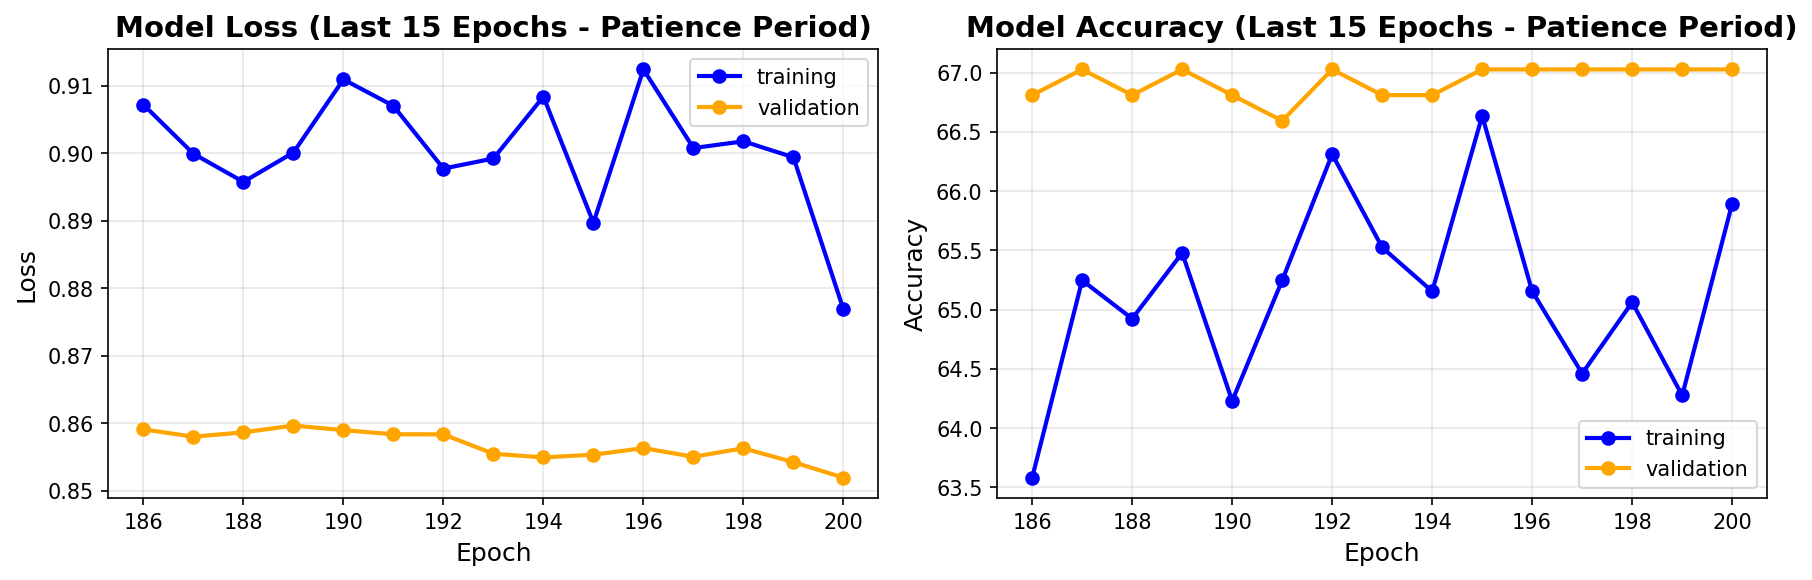
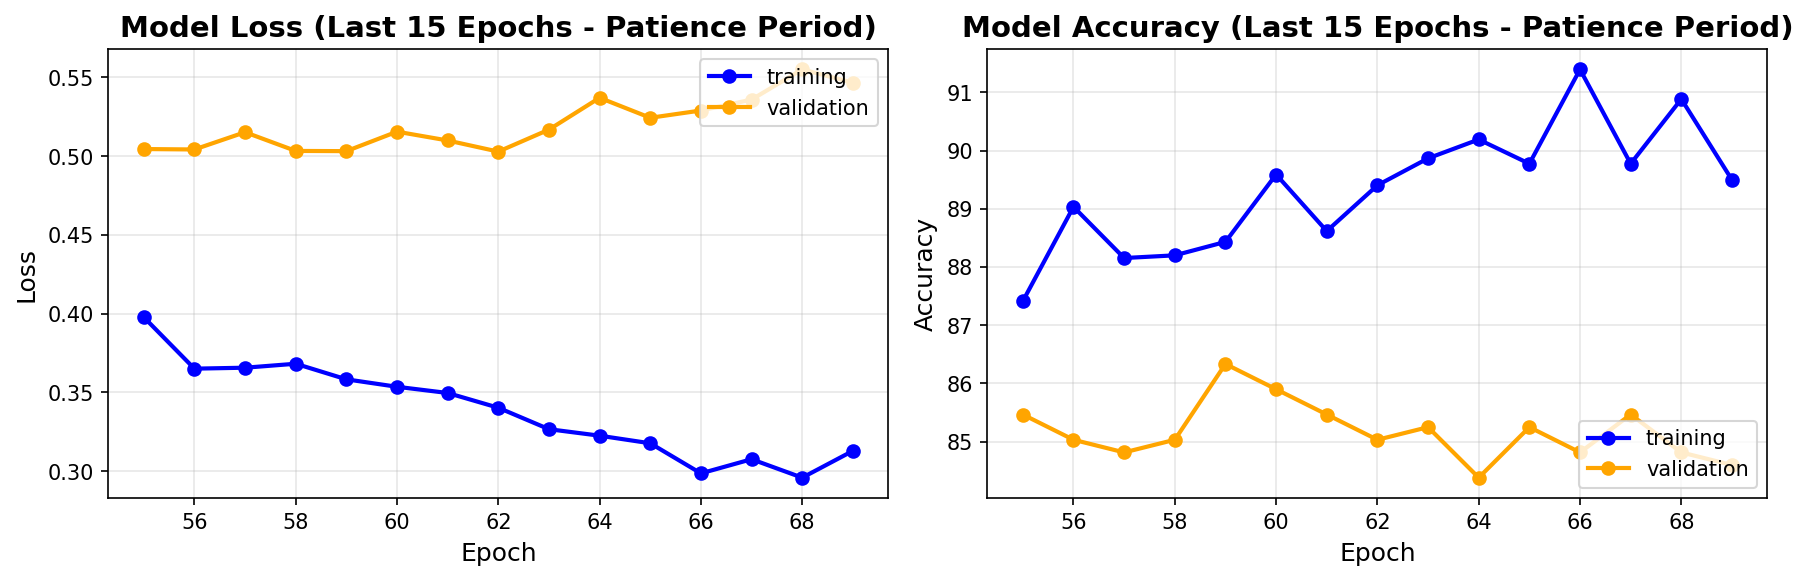
fix model densnet121  error

diff --git a/config.py b/config.py
@@ -14,7 +14,7 @@ class Config:
         DATASET_PATH = "./dataset/TomatoDataset"
     else:
         # Local environment
-        DATASET_PATH = r"C:\Users\Administrator\Downloads\kaggle\working\ProcessedOriginal"
+        DATASET_PATH = r"./kaggle/working/ProcessedOriginal"
     # Train/Val/Test split ratios
     TRAIN_RATIO = 0.7
     VAL_RATIO = 0.15
@@ -22,8 +22,8 @@ class Config:
         
     # ===================== Training Configuration =====================
     BATCH_SIZE = 64
-    NUM_EPOCHS = 100
-    LEARNING_RATE = 4e-4
+    NUM_EPOCHS = 200
+    LEARNING_RATE = 1e-5
     WEIGHT_DECAY = 1e-7  # L2 regularization để chống overfitting
     WARMUP_EPOCHS = int(NUM_EPOCHS * 0.06)
     ETA_MIN = 1e-6 #For CosineAnnealing LR
@@ -41,13 +41,13 @@ class Config:
     
     # ===================== Model Configuration =====================
     MODELS = [
-        'vgg16',  
-        'resnet18',
-        'resnet101',
-        'mobilenet_v2',
-        'densenet121',
-        'efficientnet_b0',
-        'vit_base_patch16_224'
+        # 'vgg16',  
+        # 'resnet18',
+        # 'resnet101',
+        # 'mobilenet_v2',
+        'densenet121'
+        # 'efficientnet_b0',
+        # 'vit_base_patch16_224'
     ]
     
     # Custom classifier configuration
@@ -85,7 +85,7 @@ class Config:
     KEEP_RESULTS = True             # Luôn giữ results (Excel, charts)
     
     # Random seed for reproducibility
-    RANDOM_SEED = 42
+    RANDOM_SEED = 123
     
     # ===================== W&B Configuration =====================
     # W&B tracking

diff --git a/models.py b/models.py
@@ -115,8 +115,12 @@ def get_model(model_name, num_classes, freeze_backbone=True):
         # Replace classifier
         model.classifier = CustomClassifier(in_features, num_classes)
     
+    elif model_name == 'densenet121':
+        model = models.densenet121(weights=models.DenseNet121_Weights.IMAGENET1K_V1)
+        in_features = model.classifier.in_features
         # Freeze backbone
-        for name, param in model.named_parameters():
+        if freeze_backbone:
+            for name, param in model.named_parameters():
                 if not name.startswith('classifier'):
                     param.requires_grad = True
         # Replace classifier
@@ -126,7 +130,10 @@ def get_model(model_name, num_classes, freeze_backbone=True):
         model = timm.create_model('efficientnet_b0', pretrained=True)
         in_features = model.classifier.in_features
         # Freeze backbone
-        param.requires_grad = True
+        if freeze_backbone:
+            for name, param in model.named_parameters():
+                if not name.startswith('classifier'):
+                    param.requires_grad = True
         # Replace classifier
         model.classifier = CustomClassifier(in_features, num_classes)
     
